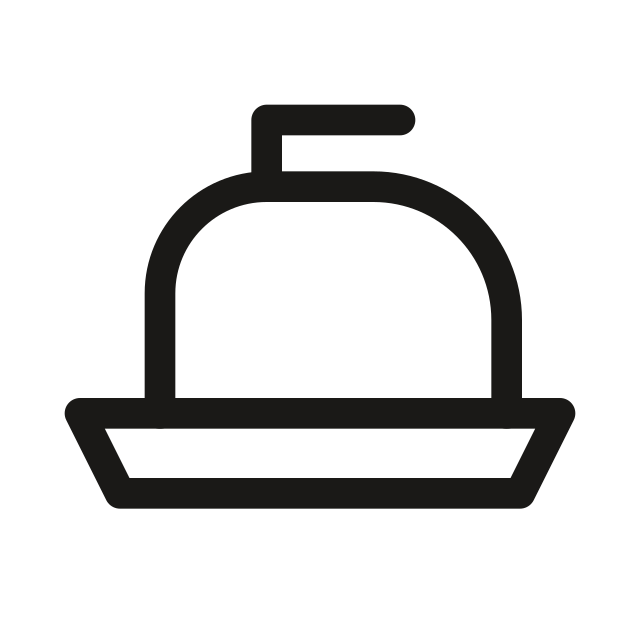
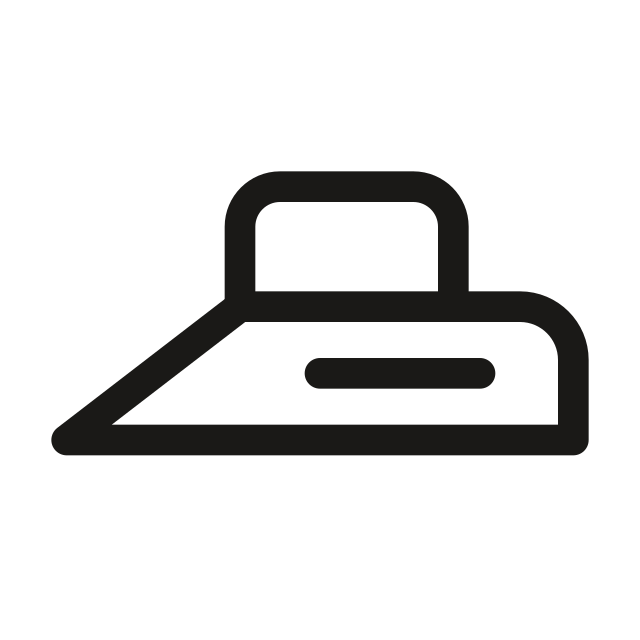
feat(brand): an angular iron and a chef's knife, after the teammate's review
The rounded iron read as a dish cover; the old knife read as a flag.
Both symbols redrawn in the sprite and re-exported at 640 px; the two
symbols are saved under research/ to paste into the theme snippet,
which still carries the old drawings (S.13). The rename asked for is a
Sapo category rename, recorded there too.

Changed region(s): [[0.0625, 0.1562, 0.9375, 0.8125]]

diff --git a/__project__/backlog.md b/__project__/backlog.md
@@ -287,6 +287,17 @@ on the live theme.
 - [ ] **S.8** ↷ The level-2 icons were drawn in one sitting and reviewed at
       64 px; a second look at 24 px on a real phone is cheap and worth it.
 
+- [ ] **S.13** **Two icons redrawn, one rename asked for** (teammate review,
+      2026-09-17 evening). The iron (`cat-cham-soc-quan-ao`) is now angular
+      — the rounded one read as a dish cover — and the knife
+      (`cat-dao-dung-cu-cat`) is a chef's knife like 🔪. Both are in
+      `public/brand/category-icons.svg` and the 640 px exports; **the theme
+      copy `vinhn-beta` still has the old drawings** — paste the two
+      `<symbol>`s from `research/icon-changes-2026-09-17.svg.txt` into
+      `snippets/wolf-cat-icons.bwt` (part of S.1 either way). The rename
+      "Chăm sóc không khí" → "Thanh lọc không khí" is a Sapo category
+      rename, not an icon: do it in the admin, then `sync:sapo`; the slug
+      (and so the sprite id `cat-cham-soc-khong-khi`) changes with it.
 - [ ] **S.9** **Download the infographic photos and upload them to Sapo.**
       `data/thumbnails/infographic-sheet.json` has 109 SKUs with a cover and
       up to eight photos on `cf.shopee.vn` (the CDN serves them directly).
